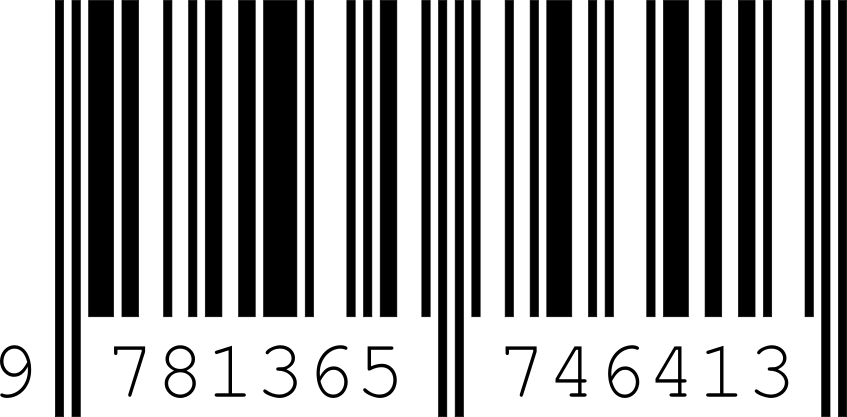
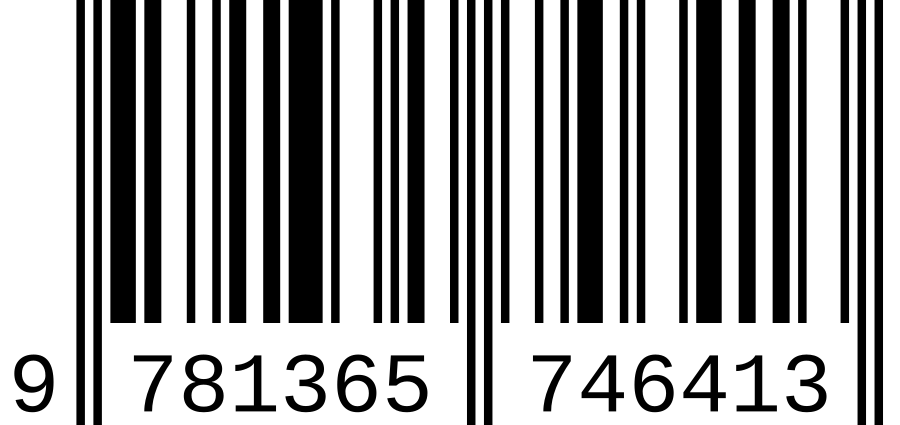
Add lulu hardback version (#70)
* Update README.md

* Update BUILDING.md

* Add hardback version for lulu.

* Update README.md

* Update README.md

* Update README.md

diff --git a/tex/cover_lulu_hardback.tex b/tex/cover_lulu_hardback.tex
@@ -1,0 +1,33 @@
+% Cover for lulu.com paperback.
+\documentclass{article}
+
+% Set the dimensions.
+% (Width and height are the dimensions of the front, not front + spine + back.)
+\newlength{\facewidth}
+\newlength{\faceheight}
+\setlength{\facewidth}{181mm}
+\setlength{\faceheight}{260.4mm}
+% trimsize includes a 3/4 inch wrap allowance.
+\newlength{\trimsize}
+\setlength{\trimsize}{19.05mm}
+\newlength{\spinewidth}
+\setlength{\spinewidth}{22.22mm}
+
+% Define paths to load files from.
+\makeatletter
+\def\input@path{{tex/}{tex/graphics}}
+\makeatother
+
+% lulu.com requires an ISBN graphic on the back cover.
+\newcommand{\ISBNgraphic}{
+	\textblockcolor{white}
+	\begin{textblock*}{43.4mm} (\facewidth+\trimsize-65mm, \stockheight-2\trimsize-25mm)
+		\centering%
+		\vspace{3mm}
+		\includegraphics[width=38mm, keepaspectratio]{isbn_lulu_hardback}
+		\vspace{3mm}
+	\end{textblock*}
+}
+
+% Include the main cover content.
+\input{cover_main}% chktex 27

diff --git a/tex/book_lulu_hardback.tex b/tex/book_lulu_hardback.tex
@@ -1,0 +1,19 @@
+% Book content for lulu.com paperback version.
+% No change to page size, but includes an ISBN graphic on the copyright page.
+\documentclass[11pt]{book}
+
+% Set the page dimensions.
+\newlength{\facewidth}
+\newlength{\faceheight}
+\setlength{\facewidth}{178mm}
+\setlength{\faceheight}{254mm}
+
+% Define paths to load files from.
+\makeatletter
+\def\input@path{{tex/}{tex/graphics}}
+\makeatother
+
+% Some versions need to include an ISBN graphic.
+\newcommand{\ISBNgraphic}{\includegraphics[width=38mm, keepaspectratio]{isbn_lulu_hardback}}
+
+\input{book_main}% chktex 27

diff --git a/README.md b/README.md
@@ -19,6 +19,36 @@ Contributions of corrections or additional information are welcomed. If you are 
 
 One thing that is badly needed is replacement images. The VUW scans are low-res and in some cases quite poor, so replacements are very welcome! (Note: the images do need to be copyright-free since the book needs to be CC-BY-SA compatible.)
 
+## Purchasing
+
+You are entirely free to use the PDFs, or generate your own, and print them.
+
+Alternatively, you can order copies from:
+
+* Hardback
+  * [lulu.com](https://www.lulu.com/shop/john-dawson-and-doug-rinckes/forest-vines-to-snow-tussocks/hardcover/product-mv8m9r.html)
+  * Amazon:
+    [US](https://www.amazon.com/dp/B09HFSMF5T),
+    [UK](https://www.amazon.co.uk/dp/B09HFSMF5T),
+    [DE](https://www.amazon.de/dp/B09HFSMF5T),
+    [FR](https://www.amazon.fr/dp/B09HFSMF5T),
+    [ES](https://www.amazon.es/dp/B09HFSMF5T),
+    [IT](https://www.amazon.it/dp/B09HFSMF5T)
+* Paperback
+  * lulu.com - coming soon
+  * Amazon:
+    [US](https://www.amazon.com/dp/B09HG54WGF),
+    [UK](https://www.amazon.co.uk/dp/B09HG54WGF),
+    [DE](https://www.amazon.de/dp/B09HG54WGF),
+    [FR](https://www.amazon.fr/dp/B09HG54WGF),
+    [ES](https://www.amazon.es/dp/B09HG54WGF),
+    [IT](https://www.amazon.it/dp/B09HG54WGF),
+    [JP](https://www.amazon.co.jp/dp/B09HG54WGF),
+    [CA](https://www.amazon.ca/dp/B09HG54WGF),
+    [AU](https://www.amazon.com.au/dp/B09HG54WGF)
+
+Note: When ordering from Amazon, make sure you buy a new copy, and check all the options. Amazon will list third-party sellers and they are _more expensive_.
+
 ## Workflows
 
 A GitHub action has been added to perform lint checks, and to build the cover and book PDFs (see the `out` directory).

diff --git a/BUILDING.md b/BUILDING.md
@@ -16,14 +16,27 @@ This will create two files, `cover_generic.pdf` and `main_generic.pdf`.
 The generic versions use page and trim sizes appropriate for [KDP](https://kdp.amazon.com), since it doesn't have any other requirements.
 
 There are versions for [lulu](https://lulu.com), since it has slightly different trim and spine requirements, as well as needing an ISBN on the cover and copyright pages.
-This version can be built with:
+They can be built with:
 
 ```shell
 latexmk tex/cover_lulu_paperback
 latexmk tex/book_lulu_paperback
+latexmk tex/cover_lulu_hardback
+latexmk tex/book_lulu_hardback
 ```
 
-If any other custom versions are required (e.g., a lulu hardback), they will be supported the same way.
+If any other custom versions are required, they should be supported the same way.
+
+### ISBN graphics
+
+You may have the choice of getting an ISBN graphic as PNG, PDF or SVG.
+
+PNGs are typically low res, and PDFs might not have properly embedded fonts (lulu, I'm looking at you), causing problems when you upload the final cover or book PDF.
+
+Download as SVG and export it to a PNG.
+The final image size is about 38mm wide, roughly 1.5 inches, so make the image about 900 pixels wide (for 600 dpi).
+
+The `\includegraphics` command needs to set the width to 38mm.
 
 ## Creating ebook version
 
